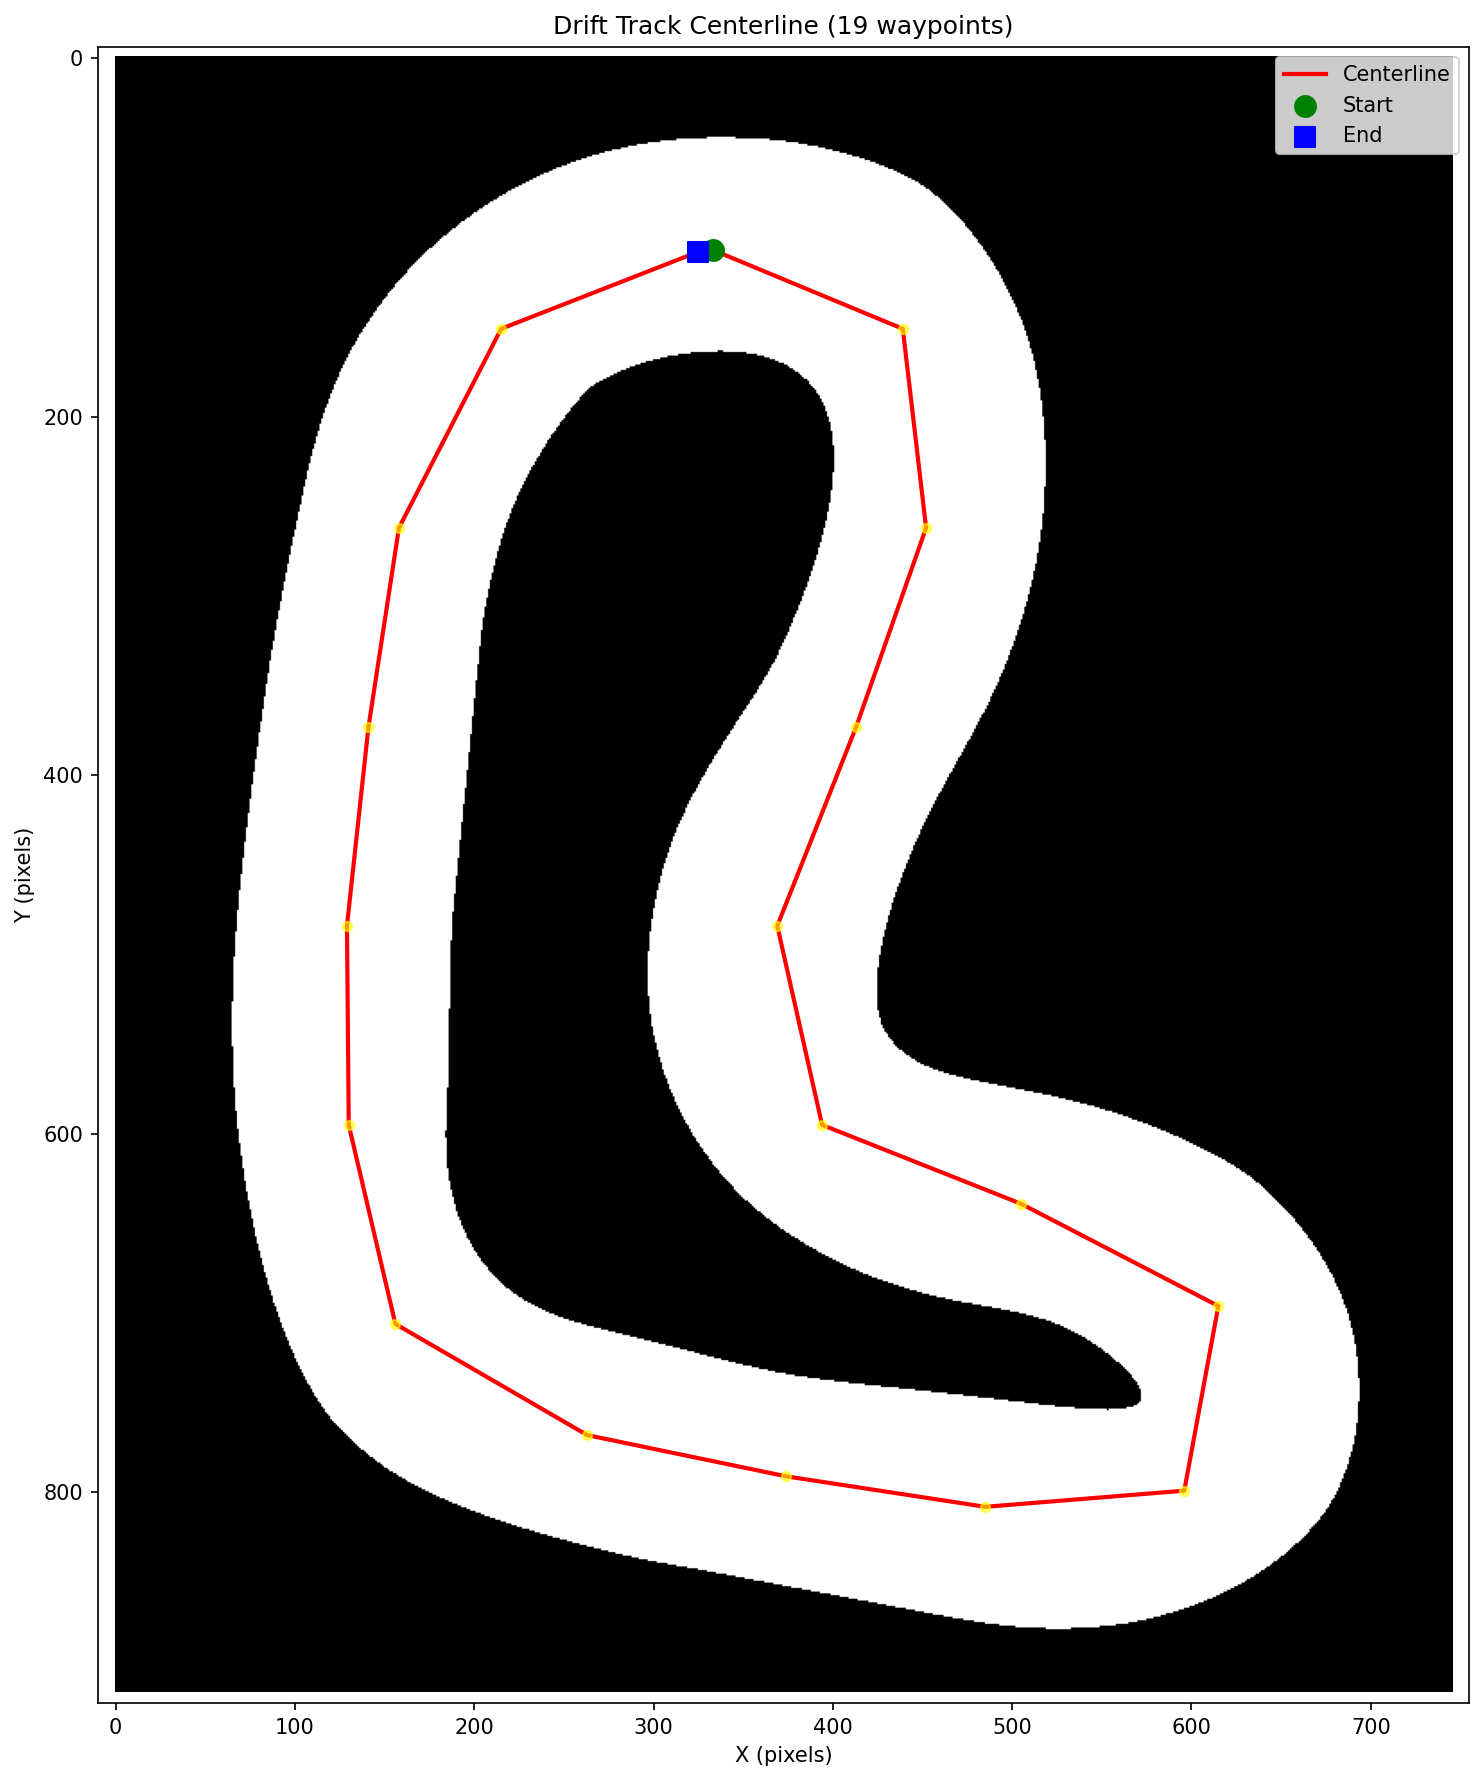
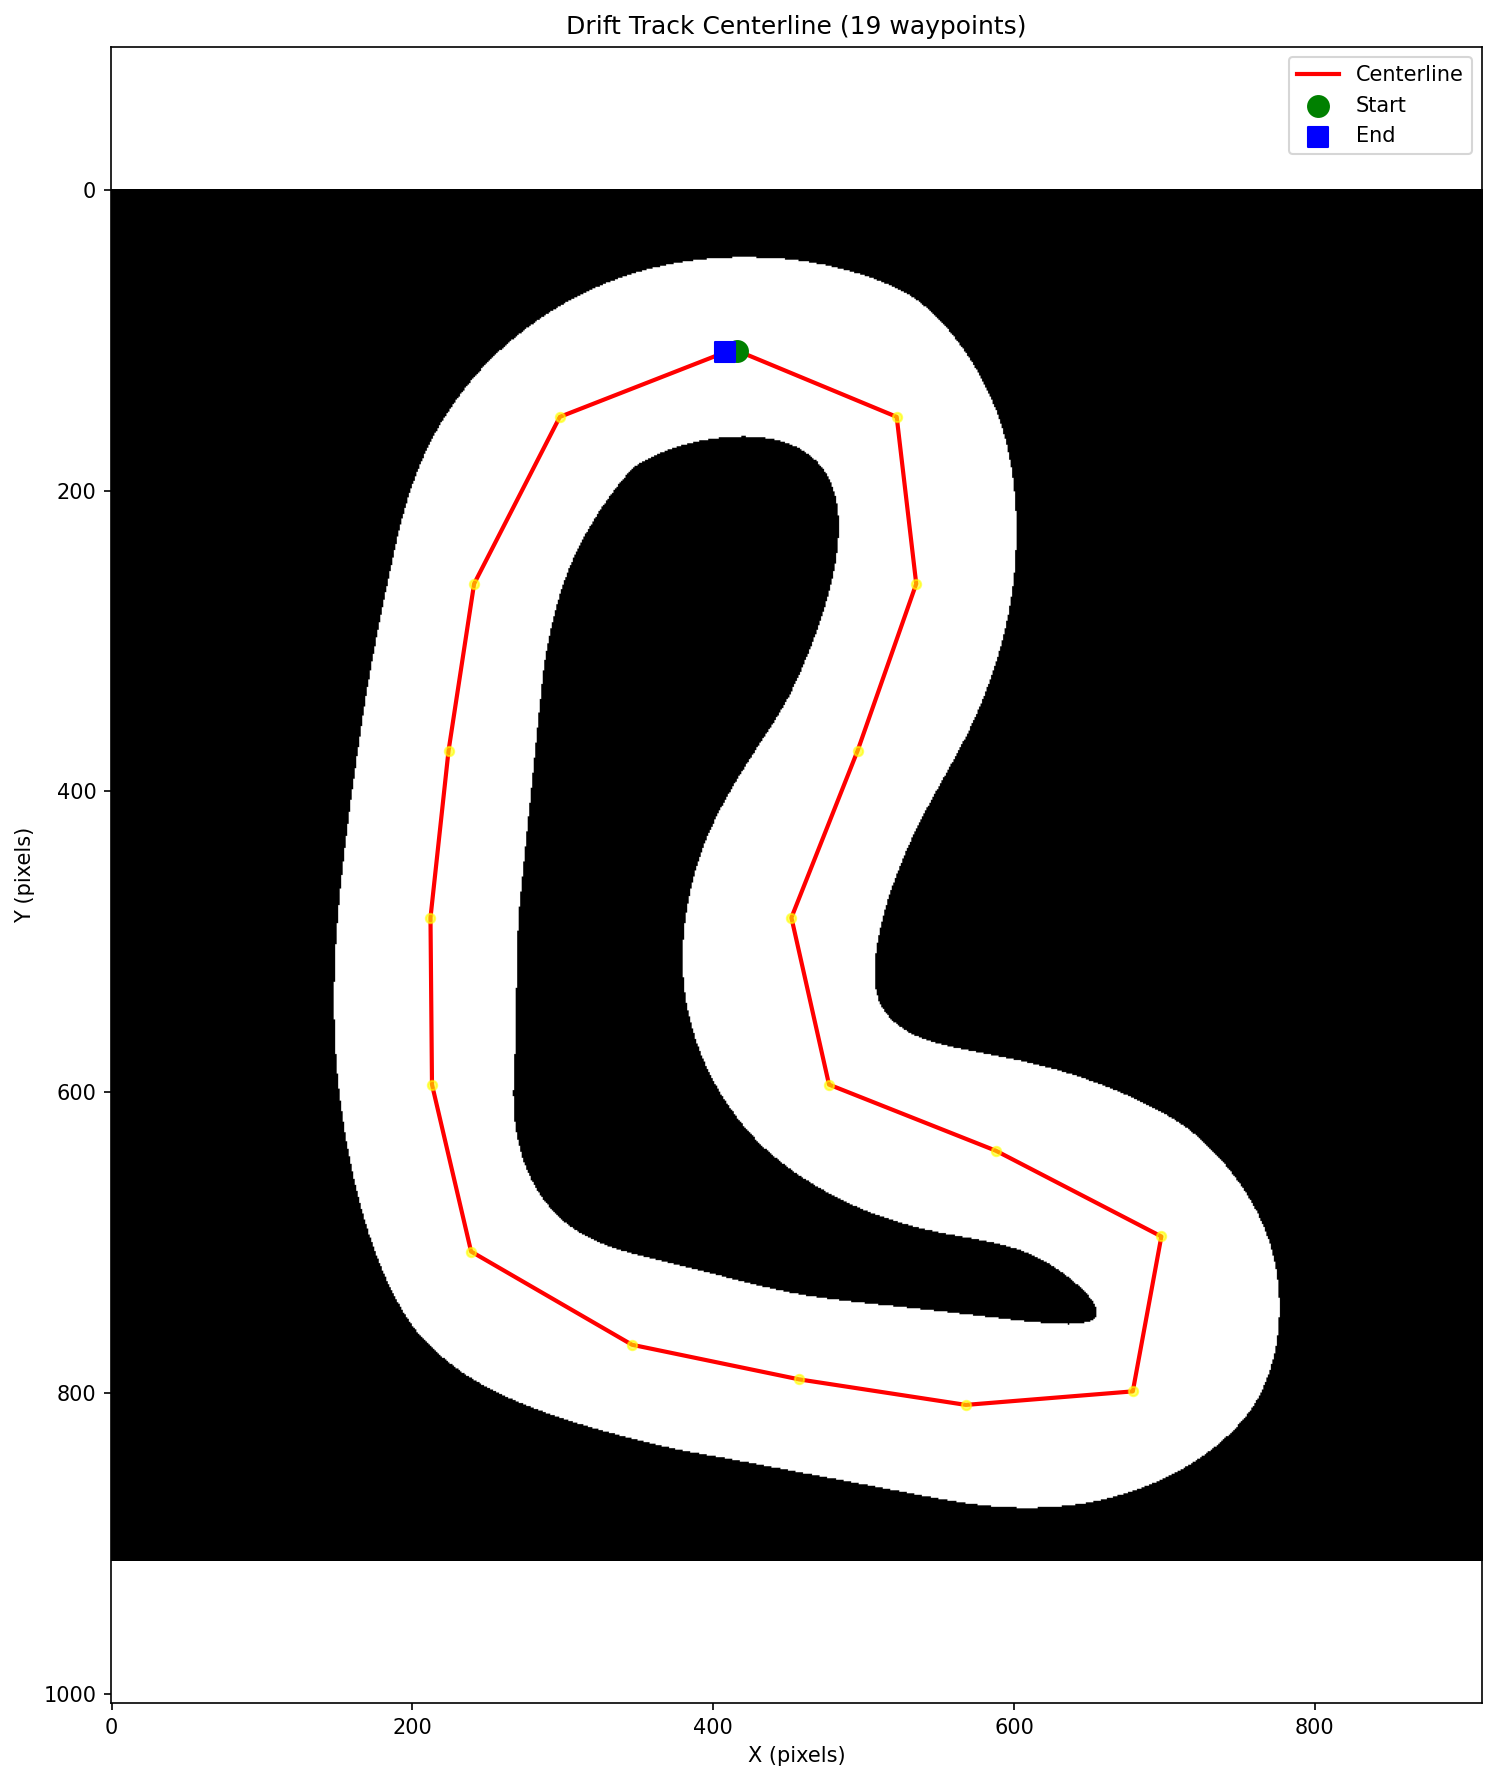
fix skewed rendering of Drift by making it square and regenerating centerline

diff --git a/maps/README.md b/maps/README.md
@@ -8,7 +8,7 @@ All maps are stored here, each in its own directory `"MAP_NAME"`, with these key
 
 ## Generating a new map
 New maps are created as a PNG in a tool like Photoshop, and then the provided scripts convert them into formats appropriate for use in this simulator
-1. First, the png must be generated. This can be done in Photoshop by tracing the inner, outer borders with the **Curvature Pen** tool, using **Threshold** to convert to black and white, and exporting as PNG to a new folder `/maps/MAP_NAME/MAP_NAME.png`
+1. First, the png must be generated. This can be done in Photoshop by tracing the inner, outer borders with the **Curvature Pen** tool, using **Threshold** to convert to black and white, and exporting as PNG to a new folder `/maps/MAP_NAME/MAP_NAME.png`. Though not necessary, rendering looks better if the aspect ratio of the map PNG is 1:1
 2. Then, `convert_to_grayscale.py` is used to convert the PNG to grayscale format for interpretation by the simulator
 3. Finally, `extract_waypoints.py` takes the PNG, uses `skeletonize` to extract the centerline, and saves the waypoints to the appropriate file. 
     1. Note that for this to work, only the inside (not the outside) of the track must be white, so the `skeletonize` algorithm recognizes this as the only empty space. This can easily be done using the **Paint Bucket** tool in Photoshop to fill the outer space with solid black. 
